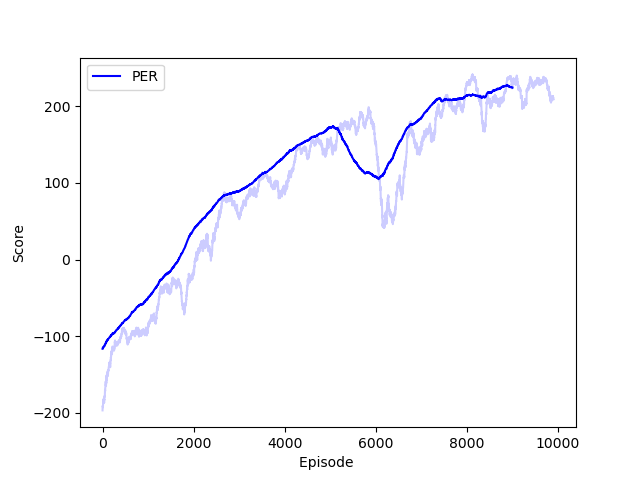
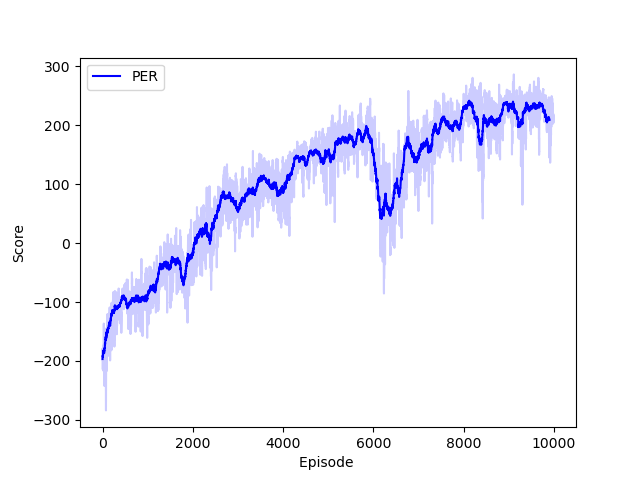
graph generated

diff --git a/graph.py b/graph.py
@@ -10,9 +10,9 @@ def moving_average(a, n=100):
 
 scores_per = np.loadtxt("scores_per.txt")
 print(len(scores_per))
-scores_ma_per = moving_average(scores_per, n=100)
+scores_ma_per = moving_average(scores_per, n=10)
 print(len(scores_ma_per))
-scores_ma_per_1000 = moving_average(scores_per, n=1000)
+scores_ma_per_1000 = moving_average(scores_per, n=100)
 print(len(scores_ma_per_1000))
 
 plt.plot(np.arange(len(scores_ma_per)), scores_ma_per,
